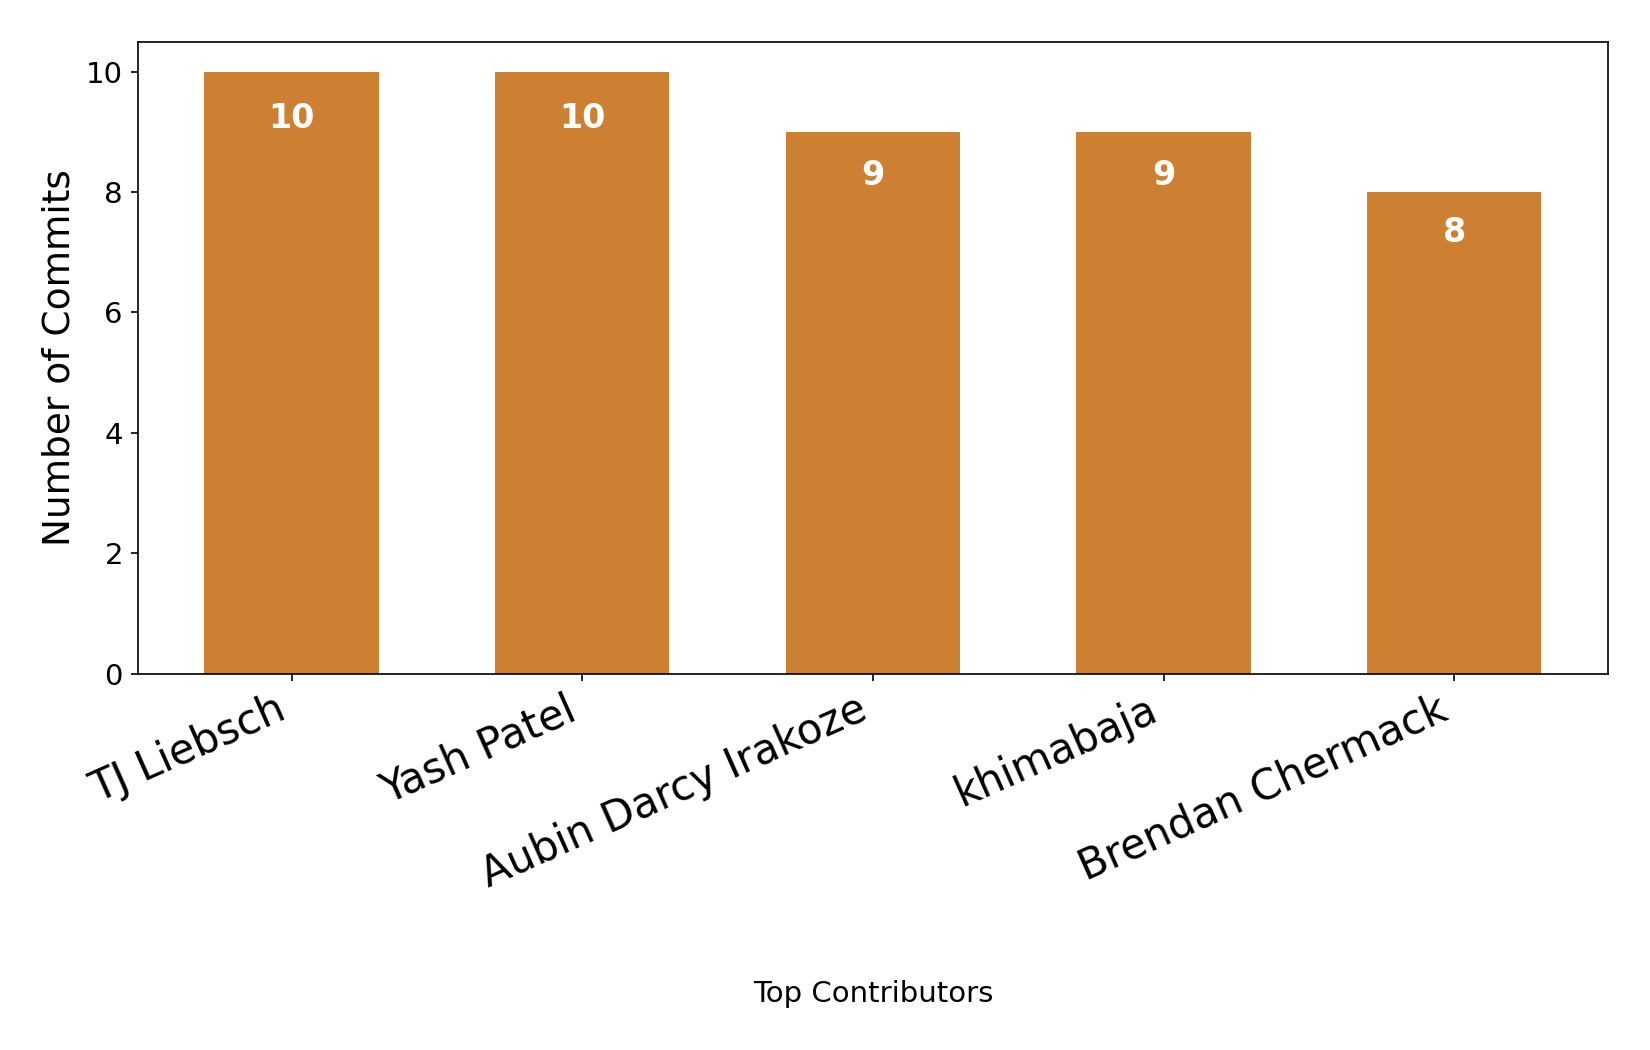
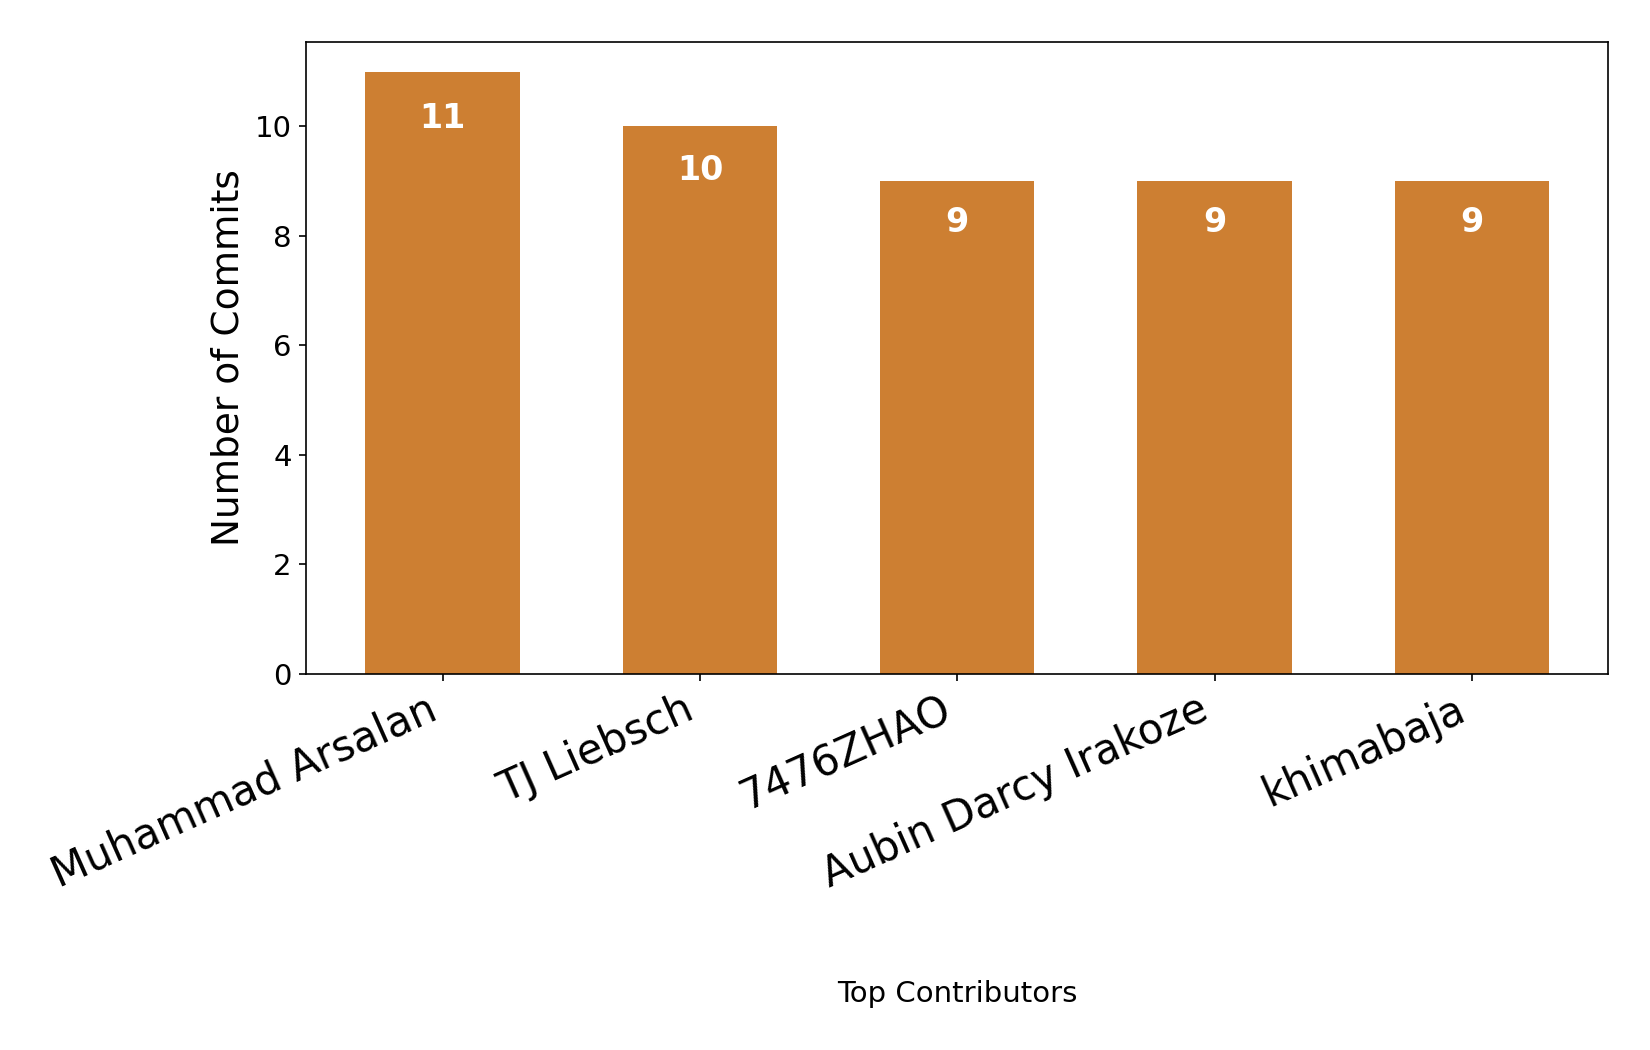
Manual drone control error fix

diff --git a/GUI5_ManualDroneControl/GUI5_ManualDroneControl.qml b/GUI5_ManualDroneControl/GUI5_ManualDroneControl.qml
@@ -66,7 +66,7 @@ ApplicationWindow {
                             buttonText.color = "white"; // Revert text color to white on exit
                         }
                         onClicked: {
-                            droneController.doDroneTAction("home");
+                            backend.doDroneTAction("home");
                         }
                     }
                 }
@@ -119,7 +119,7 @@ ApplicationWindow {
                                 upButtonText.color = "white"; // Revert text color to white on exit
                             }
                             onClicked: {
-                                droneController.doDroneTAction("up");
+                                backend.doDroneTAction("up");
                             }
                         }
                     }
@@ -223,7 +223,7 @@ ApplicationWindow {
                             forwardBackground.color = "#242c4d"; // Revert background color on exit
                             forwardText.color = "white"; // Revert text color to white on exit
                         }
-                        onClicked: droneController.doDroneTAction("forward")
+                        onClicked: backend.doDroneTAction("forward")
                     }
                 }
             }
@@ -275,7 +275,7 @@ ApplicationWindow {
                             turnLeftText.color = "white"; // Revert text color to white on exit
                         }
                         onClicked: {
-                            droneController.doDroneTAction("turn_left");
+                            backend.doDroneTAction("turn_left");
                         }
                     }
                 }
@@ -323,7 +323,7 @@ ApplicationWindow {
                             leftText.color = "white"; // Revert text color to white on exit
                         }
                         onClicked: {
-                            droneController.doDroneTAction("left");
+                            backend.doDroneTAction("left");
                         }
                     }
                 }
@@ -371,7 +371,7 @@ ApplicationWindow {
                             streamText.color = "white"; // Revert text color to white on exit
                         }
                         onClicked: {
-                            droneController.doDroneTAction("stream");
+                            backend.doDroneTAction("stream");
                         }
                     }
                 }
@@ -419,7 +419,7 @@ ApplicationWindow {
                             rightText.color = "white"; // Revert text color to white on exit
                         }
                         onClicked: {
-                            droneController.doDroneTAction("right");
+                            backend.doDroneTAction("right");
                         }
                     }
                 }
@@ -468,7 +468,7 @@ ApplicationWindow {
                             turnRightText.color = "white"; // Revert text color to white on exit
                         }
                         onClicked: {
-                            droneController.doDroneTAction("turn_right");
+                            backend.doDroneTAction("turn_right");
                         }
                     }
                 }
@@ -522,7 +522,7 @@ ApplicationWindow {
                             backButtonText.color = "white"; // Revert text color to white on exit
                         }
                         onClicked: {
-                            droneController.doDroneTAction("backward"); // Action for the "Back" button
+                            backend.doDroneTAction("backward"); // Action for the "Back" button
                         }
                     }
                 }
@@ -576,7 +576,7 @@ ApplicationWindow {
                             connectButtonText.color = "white"; // Revert text color to white on exit
                         }
                         onClicked: {
-                           droneController.doDroneTAction("connect"); // Action for the "Connect" button
+                           backend.doDroneTAction("connect"); // Action for the "Connect" button
                         }
                     }
                 }
@@ -624,7 +624,7 @@ ApplicationWindow {
                             downButtonText.color = "white"; // Revert text color to white on exit
                         }
                         onClicked: {
-                            droneController.doDroneTAction("down"); // Action for the "Down" button
+                            backend.doDroneTAction("down"); // Action for the "Down" button
                         }
                     }
                 }
@@ -671,7 +671,7 @@ ApplicationWindow {
                             takeoffButtonBackground.color = "#242c4d"; // Revert background color on exit
                             takeoffButtonText.color = "white"; // Revert text color to white on exit
                         }
-                        onClicked: droneController.doDroneTAction("takeoff")
+                        onClicked: backend.doDroneTAction("takeoff")
                     }
                 }
             }
@@ -718,7 +718,7 @@ ApplicationWindow {
                             landButtonText.color = "white"; // Revert text color to white on exit
                         }
                         onClicked: {
-                            droneController.doDroneTAction("land"); // Action for the "Land" button
+                            backend.doDroneTAction("land"); // Action for the "Land" button
                         }
                     }
                 }
